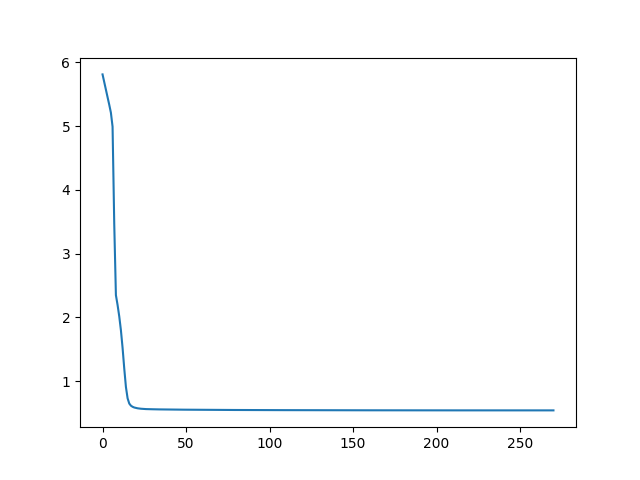
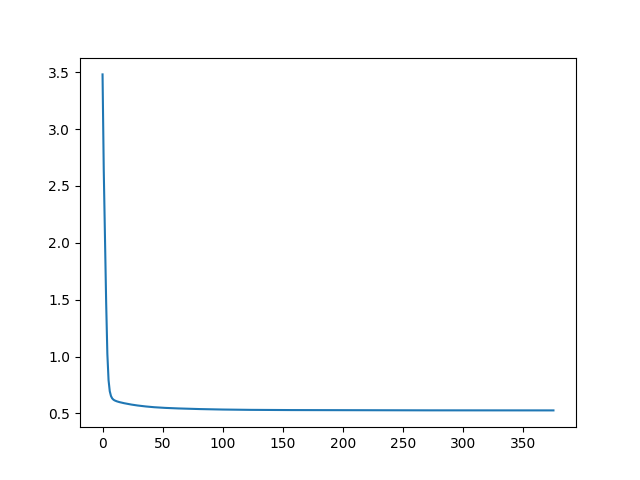
Add files via upload

diff --git a/testingPyTorch.py b/testingPyTorch.py
@@ -27,7 +27,7 @@ def init_weights(layer):
         layer.weight.data.fill_(0.0)
 
 model = ExampleNet()
-model.apply(init_weights)
+#model.apply(init_weights)
 num_epochs = 1000
 optimizer = optim.SGD(model.parameters(), lr=.00001) #learning rates higher than this tend to converge to local minima after first epoch
 testing_differences = -1
@@ -51,10 +51,11 @@ plt.ylabel("Average error on samples")
 #Training
 for outer_loop in range(num_epochs):
     if outer_loop % 10 == 0:
-        for group in optimizer.param_groups:
-            group['lr'] = group['lr'] - (group['lr']/10) #lowers weights slowly over time
+        #for group in optimizer.param_groups:
+        #    group['lr'] = group['lr'] - (group['lr']/10) #lowers weights slowly over time
         print(outer_loop)
-
+    for group in optimizer.param_groups:
+        group['lr'] = group['lr'] - (group['lr']/100)
     f = open("training.csv")
     f.readline()
     sum_differences = 0
@@ -124,10 +125,13 @@ for outer_loop in range(num_epochs):
     x_vals_testing.append(curr_epoch)
 
     if(max(x_vals_testing) > 49):
-        plt.xlim(1, max(x_vals_testing))
-    plt.ylim(0,float(sum_differences)/num_samples * 1.5)
+        plt.xlim(1, max(x_vals_testing) + 10)
+    if(float(sum_differences)/num_samples > 1):
+        plt.ylim(0,float(sum_differences)/num_samples * 1.5)
+    else:
+        plt.ylim(float(sum_differences)/num_samples * float(sum_differences)/num_samples,float(sum_differences)/num_samples * 1.5)
     plt.plot(x_vals_testing, testing_error_y_vals)
-    plt.pause(.1)
+    plt.pause(.01)
 
 if exit_code == -1:
     print("Training stopped after " + str(curr_epoch) + " epochs from reaching max epochs.")
